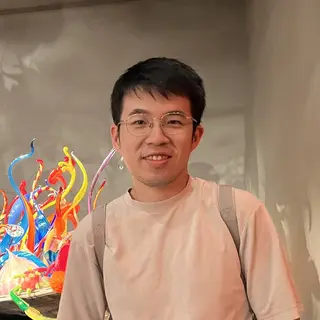
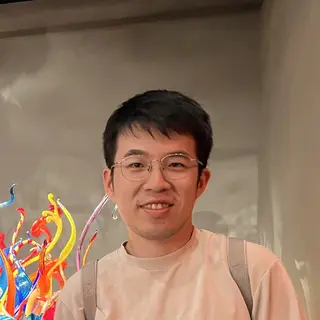
Polish hero details and citation

diff --git a/app/styles/layout.css b/app/styles/layout.css
@@ -3455,7 +3455,7 @@ pre.bibtex {
   object-fit: contain;
   opacity: 0.6;
   filter: saturate(0.72) contrast(0.96);
-  transform: translateX(0.55rem);
+  transform: translate(2rem, -0.82rem);
   pointer-events: none;
   user-select: none;
 }
@@ -3494,10 +3494,11 @@ pre.bibtex {
   content: "";
   position: absolute;
   z-index: -1;
-  inset: -1.25rem -1.55rem -1.45rem;
-  border-radius: 47% 53% 51% 49% / 52% 46% 54% 48%;
-  background: color-mix(in srgb, var(--page) 88%, transparent);
-  box-shadow: 0 0 1.45rem 1rem color-mix(in srgb, var(--page) 72%, transparent);
+  inset: -1.85rem -3.8rem -2.3rem;
+  border-radius: 43% 57% 46% 54% / 56% 44% 58% 42%;
+  background: color-mix(in srgb, var(--page) 56%, transparent);
+  box-shadow: 0 0 1.8rem 1.15rem color-mix(in srgb, var(--page) 28%, transparent);
+  filter: blur(4px);
   pointer-events: none;
 }
 
@@ -3755,8 +3756,37 @@ pre.bibtex {
   align-items: center;
   gap: 0.44rem;
   padding: 0.08rem 0.04rem 0.18rem;
+  border-bottom: 0;
   font-size: 1rem;
   cursor: zoom-in;
+}
+
+.hero-authors a > span {
+  display: inline-flex;
+  align-items: baseline;
+  border-bottom: 1px solid var(--rule-mid);
+  line-height: 1.35;
+  transition: color 150ms ease, border-color 150ms ease;
+}
+
+.hero-authors a > span::after {
+  content: "↗";
+  margin-left: 0.32rem;
+  color: var(--signal);
+  font-size: 0.76rem;
+  font-weight: 700;
+  transition: transform 150ms ease;
+}
+
+.hero-authors a:hover > span,
+.hero-authors a:focus-visible > span {
+  color: var(--signal-dark);
+  border-color: var(--signal);
+}
+
+.hero-authors a:hover > span::after,
+.hero-authors a:focus-visible > span::after {
+  transform: translate(0.1rem, -0.1rem);
 }
 
 .author-portrait {

diff --git a/app/components/Colophon.tsx b/app/components/Colophon.tsx
@@ -16,8 +16,6 @@ export default function Colophon() {
 {`@inproceedings{appliedscientist2027,
   title     = {${site.title}},
   author    = {${site.authors.map((a) => a.name).join(" and ")}},
-  booktitle = {Proceedings of the AAAI Conference on
-               Artificial Intelligence},
   year      = {2027}
 }`}
             </pre>
